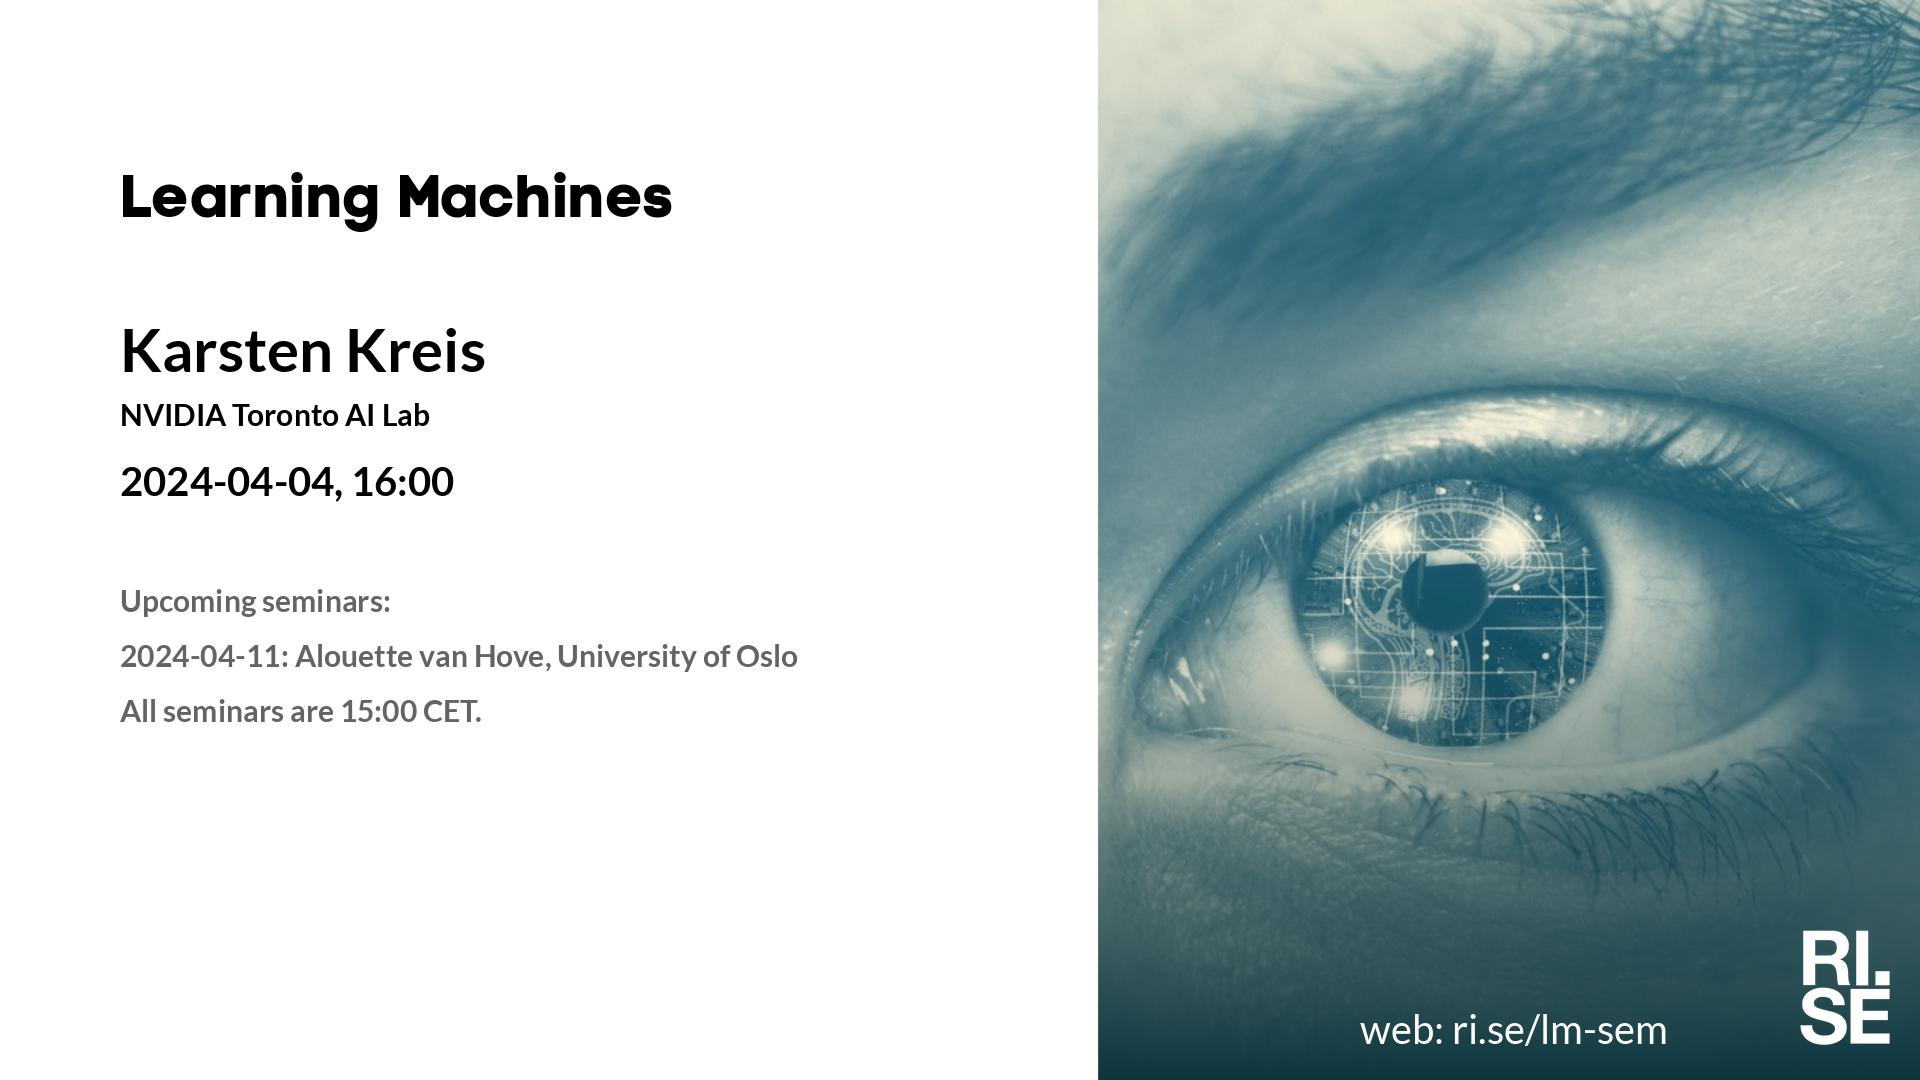
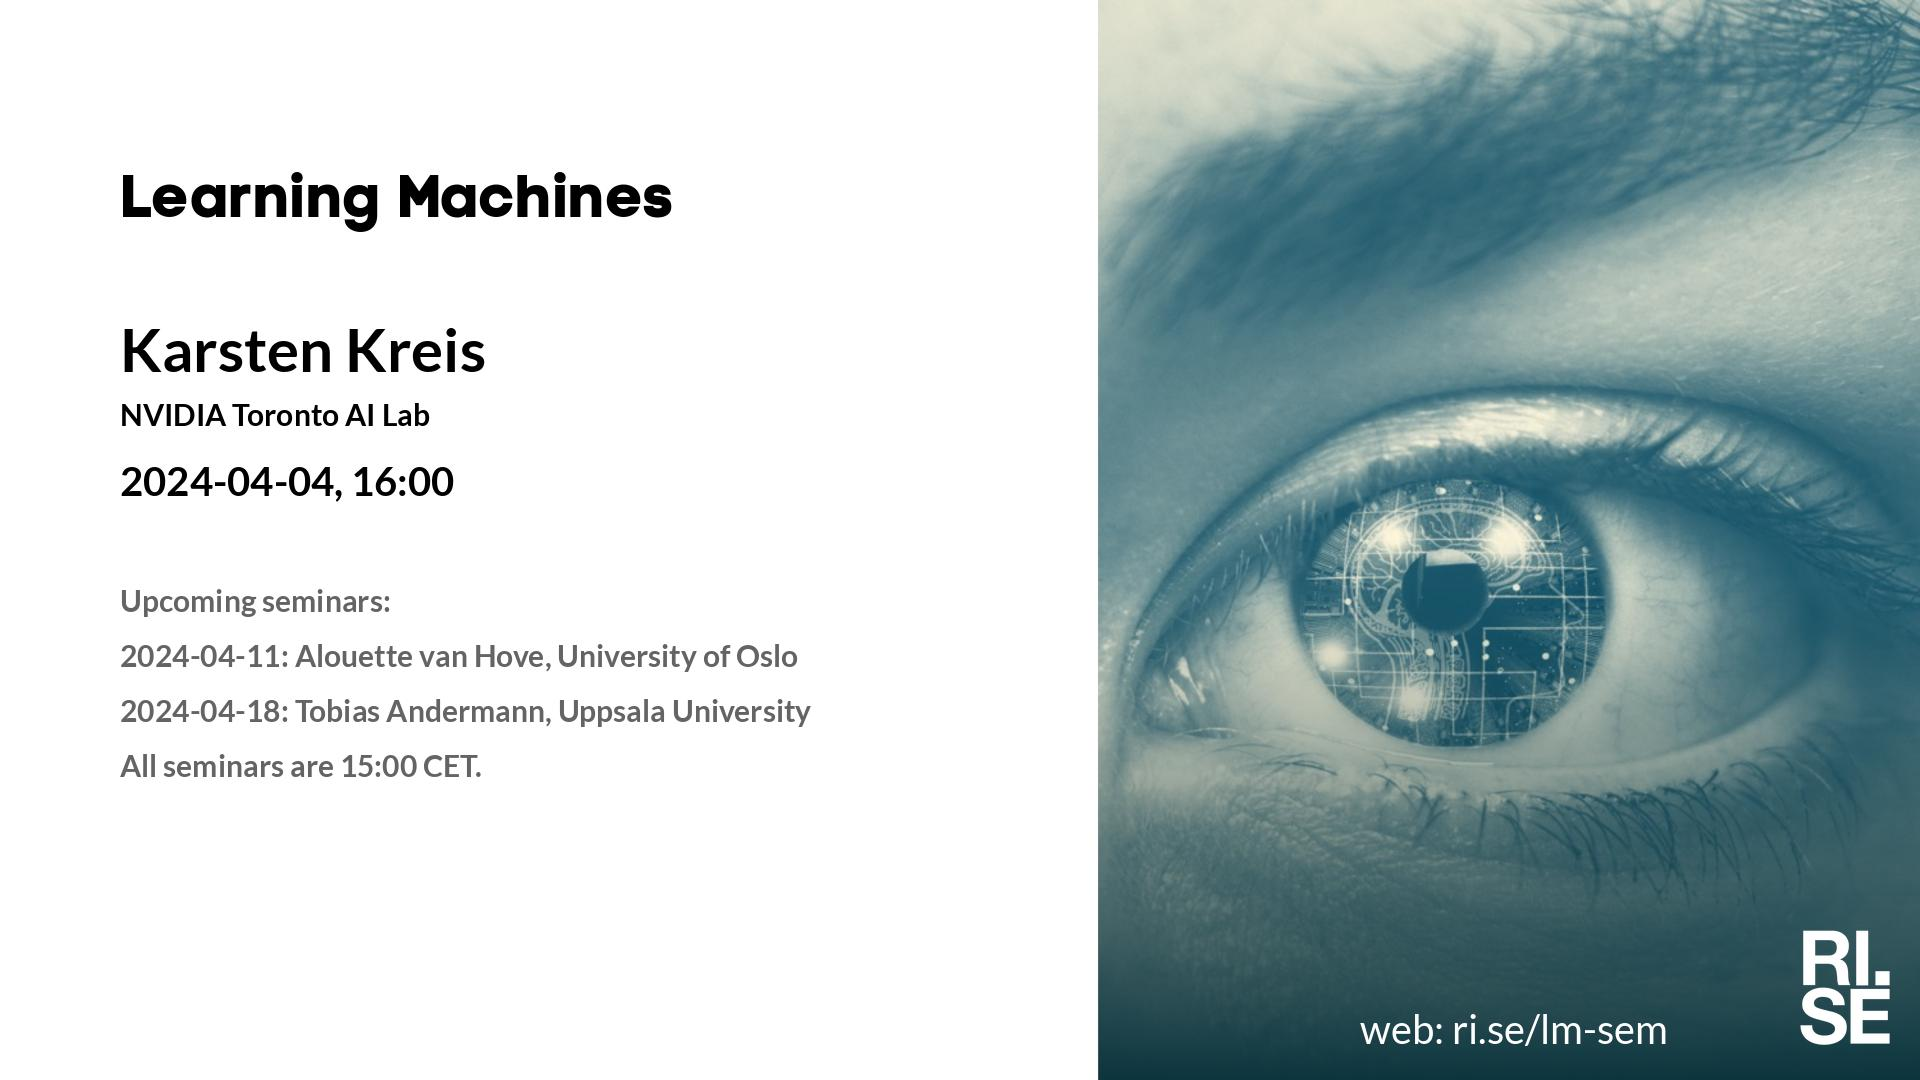
Updated plan on web site.

Changed region(s): [[0.0625, 0.6417, 0.4375, 0.6722], [0.0625, 0.7028, 0.25, 0.7333]]

diff --git a/lm/index.md b/lm/index.md
@@ -5,7 +5,7 @@ metatags: "<meta name=\"robots\" content=\"noindex,nofollow\" />"
 <style type="text/css" scoped>
 td, th {border: 1px solid #ccc; padding: 0.6em;}
 table {border-collapse: collapse;}
-</style># Learning Machines Plan 2024-03-15
+</style># Learning Machines Plan 2024-03-18
 
 | date | speaker                                   | photo | shareable | meeting backdrop | youtube thumbnail | <a title="Speaker, Title, Abstract, Bio, Photo. Strikethrough means we don't have it yet.">comment</a>        |
 | ---- | ----------------------------------------- | ----- | ----- | ----- | ----- | -------------- |
@@ -16,7 +16,7 @@ table {border-collapse: collapse;}
 |  2024-03-28  |  [Yonghao Xu, Linköping University](2024-03-28.md)  |  [photo](photo-yonghao-xu.jpg)  |  [social media ](social-media-yonghao-xu.jpg)  |  [meeting backdrop ](meeting-backdrop-yonghao-xu.jpg)  |  [youtube thumbnail ](youtube-thumbnail-yonghao-xu.jpg)  |  STABP  |
 |  2024-04-04  |  [Karsten Kreis, NVIDIA Toronto AI Lab](2024-04-04.md)  |  [photo](photo-karsten-kreis.jpg)  |  [social media ](social-media-karsten-kreis.jpg)  |  [meeting backdrop ](meeting-backdrop-karsten-kreis.jpg)  |  [youtube thumbnail ](youtube-thumbnail-karsten-kreis.jpg)  |  S~~TAB~~P  |
 |  2024-04-11  |  [Alouette van Hove, University of Oslo](2024-04-11.md)  |    |  [social media ](social-media-alouette-van-hove.jpg)  |  [meeting backdrop ](meeting-backdrop-alouette-van-hove.jpg)  |  [youtube thumbnail ](youtube-thumbnail-alouette-van-hove.jpg)  |  S~~TABP~~  |
-| <span style="color:grey"> 2024-04-18 </span> | <span style="color:grey"> Tobias A. ? </span> | <span style="color:grey">  </span> | <span style="color:grey">  </span> | <span style="color:grey">  </span> | <span style="color:grey">  </span> | <span style="color:grey"> S~~TABP~~ </span> |
+|  2024-04-18  |  [Tobias Andermann, Uppsala University](2024-04-18.md)  |    |  [social media ](social-media-tobias-andermann.jpg)  |  [meeting backdrop ](meeting-backdrop-tobias-andermann.jpg)  |  [youtube thumbnail ](youtube-thumbnail-tobias-andermann.jpg)  |  S~~TABP~~  |
 | <span style="color:grey"> 2024-04-25 </span> | <span style="color:grey"> Milena P. ? </span> | <span style="color:grey">  </span> | <span style="color:grey">  </span> | <span style="color:grey">  </span> | <span style="color:grey">  </span> | <span style="color:grey"> S~~TABP~~ </span> |
 | <span style="color:red"> 2024-05-02 </span> | <span style="color:red"> ICLR </span> | <span style="color:red">  </span> | <span style="color:red">  </span> | <span style="color:red">  </span> | <span style="color:red">  </span> | <span style="color:red"> CANCELLED </span> |
 | <span style="color:red"> 2024-05-09 </span> | <span style="color:red"> ICLR </span> | <span style="color:red">  </span> | <span style="color:red">  </span> | <span style="color:red">  </span> | <span style="color:red">  </span> | <span style="color:red"> CANCELLED </span> |

diff --git a/lm/2024-04-18.md b/lm/2024-04-18.md
@@ -6,7 +6,7 @@ Welcome to this week's Learning Machines seminar.
 
 **Title:** N/A
 
-**Speaker:** Karsten Kreis, NVIDIA Toronto AI Lab
+**Speaker:** Tobias Andermann, Uppsala University
 
 **Abstract:** N/A
 
@@ -14,14 +14,12 @@ Welcome to this week's Learning Machines seminar.
 
 **Location:** This is an online seminar. Connect using Zoom.
 
-**Date:** 2024-04-04 16:00
+**Date:** 2024-04-18 15:00
 
-**Zoom link:** [https://rise.zoom.us/j/208117140?pwd=bU9QNldSQ2pzM0F2MENoTUFBVVc4Zz09](https://rise.zoom.us/j/208117140?pwd=bU9QNldSQ2pzM0F2MENoTUFBVVc4Zz09)
+**Zoom link:** [https://rise.zoom.us/j/208117140](https://rise.zoom.us/j/208117140)
 
 **Upcoming seminars:**
 
-* 2024-04-11: Alouette van Hove, University of Oslo
-* 2024-04-18: Tobias Andermann, Uppsala University
 * All seminars are 15:00 CET.
 
 More information and coming seminars: [https://ri.se/lm-sem](https://ri.se/lm-sem)

diff --git a/lm/2024-03-28.md b/lm/2024-03-28.md
@@ -23,6 +23,7 @@ To begin, I will introduce a consistency-regularized region-growing network, whi
 
 * 2024-04-04, 16:00: Karsten Kreis, NVIDIA Toronto AI Lab
 * 2024-04-11, 15:00: Alouette van Hove, University of Oslo
+* 2024-04-18, 15:00: Tobias Andermann, Uppsala University
 * All times are in CET.
 
 More information and coming seminars: [https://ri.se/lm-sem](https://ri.se/lm-sem)

diff --git a/lm/2024-04-11.md b/lm/2024-04-11.md
@@ -20,6 +20,7 @@ Welcome to this week's Learning Machines seminar.
 
 **Upcoming seminars:**
 
+* 2024-04-18: Tobias Andermann, Uppsala University
 * All seminars are 15:00 CET.
 
 More information and coming seminars: [https://ri.se/lm-sem](https://ri.se/lm-sem)
